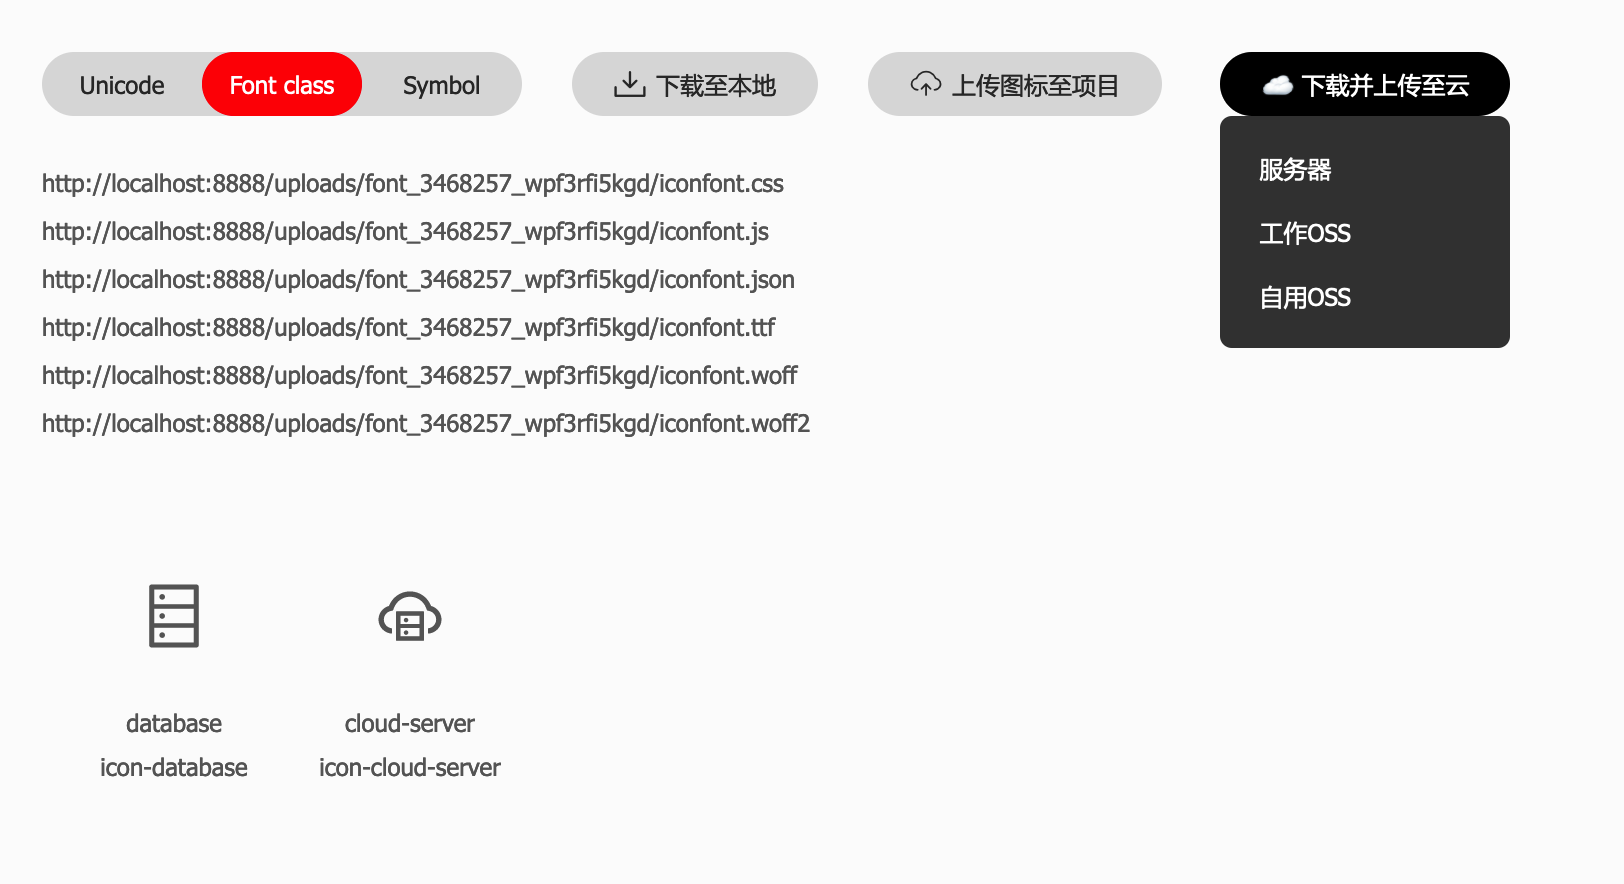
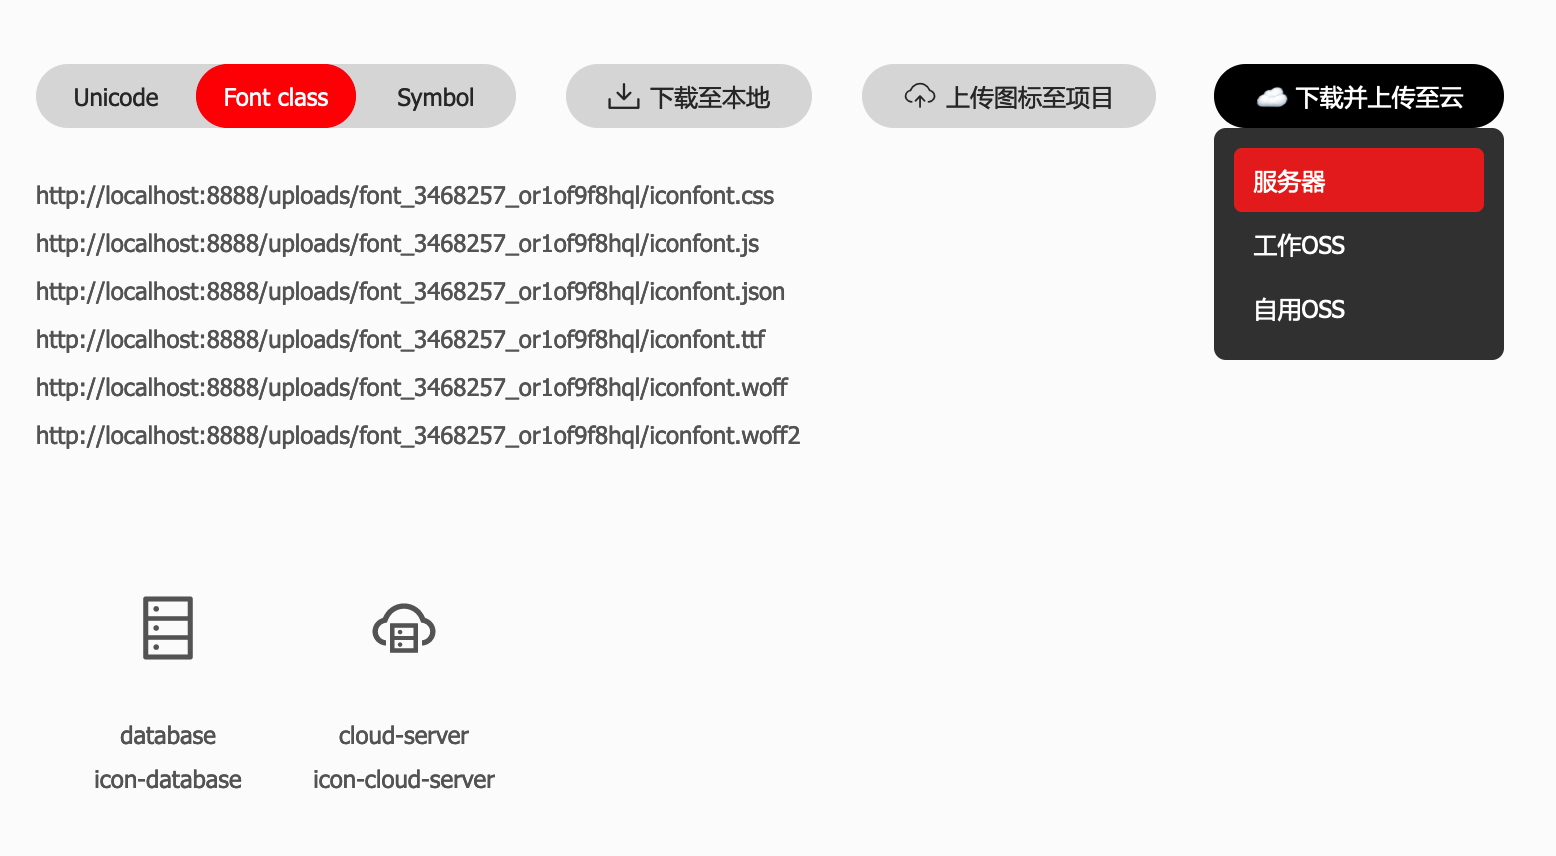
修改readme和错误提示

diff --git a/greasemonkey.js b/greasemonkey.js
@@ -27,116 +27,124 @@
   }, 100);
 
   $(document).on('gogogo', function () {
-    $.get(`${server}/`, function (data) {
-      const uploadBtns = $(`
-  <style>
-  .upload-btns {
-      display: inline-flex;
-      align-items: center;
-      vertical-align: top;
-      color: #fff;
-      background: #000;
-      border-radius: 40px;
-      padding: 0 20px;
-      position: relative;
-      height: 32px;
-      line-height: 32px;
-      margin-left: 25px;
-      cursor: pointer;
-  }
-  .upload-btns i {
-      margin-right: 5px;
-      font-size: 16px;
-  }
-  .upload-btns__dropdown {
-      display: none;
-      position: absolute;
-      left: 0;
-      top: 32px;
-      width: 100%;
-      background: rgba(0,0,0,0.75);
-      border-radius: 6px;
-      padding: 10px;
-      box-sizing: border-box;
-      cursor: default;
-  }
-  .upload-btns:hover .upload-btns__dropdown {
-      display: block;
-  }
-  .upload-btns__dropdown__item {
-      cursor: pointer;
-      padding: 0 10px;
-      border-radius: 4px;
-  }
-  
-  .upload-btns__dropdown__item:hover {
-      background: #EB3223;
-  }
-
-  .upload-btns__dropdown__item:active {
-    background: red;
-}
-  
-  </style>
-  <div class="upload-btns">
-    <i>☁</i>下载并上传至云
-    <div class="upload-btns__dropdown">
-       ${data.map((item) => `<div class="upload-btns__dropdown__item">${item}</div>`).join('\n')}
-    </div>
-  </div>
-  `);
-      $('.project-manage-bar').append(uploadBtns);
-      $('.upload-btns__dropdown__item').on('click', function () {
-        const target = $(this).text();
-        let downloadUrl = '';
-        $('.project-manage-bar .btn').each(function () {
-          const href = $(this).attr('href');
-          if (/download\.zip/.test(href)) {
-            downloadUrl = location.protocol + '//' + location.host + href;
-          }
-        });
-
-        const downloadFile = $.ajax({
-          url: downloadUrl,
-          type: 'GET',
-          xhrFields: {
-            responseType: 'blob',
-          },
-        });
-        $.when(downloadFile).then(
-          function (content) {
-            const blob = new Blob([content]);
-            const formData = new FormData();
-            formData.append('target', target);
-            formData.append('file', blob);
-            $.ajax({
-              type: 'POST',
-              url: `${server}/upload`,
-              processData: false,
-              contentType: false,
-              cache: false,
-              data: formData,
-              success: function ({ data }) {
-                console.log(data); // 接收上传后的返回的iconfont url，可以复制或者别的使用方式
-                if (!$('.url-list').get(0)) {
-                  $('.project-iconlist').before(
-                    '<div class="url-list" style="line-height: 2em; margin-top: 20px;"></div>'
-                  );
+    $.ajax({
+      url: server + '/',
+      type: 'GET',
+      cache: false,
+      success: function (data) {
+        const uploadBtns = $(`
+        <style>
+        .upload-btns {
+            display: inline-flex;
+            align-items: center;
+            vertical-align: top;
+            color: #fff;
+            background: #000;
+            border-radius: 40px;
+            padding: 0 20px;
+            position: relative;
+            height: 32px;
+            line-height: 32px;
+            margin-left: 25px;
+            cursor: pointer;
+        }
+        .upload-btns i {
+            margin-right: 5px;
+            font-size: 16px;
+        }
+        .upload-btns__dropdown {
+            display: none;
+            position: absolute;
+            left: 0;
+            top: 32px;
+            width: 100%;
+            background: rgba(0,0,0,0.75);
+            border-radius: 6px;
+            padding: 10px;
+            box-sizing: border-box;
+            cursor: default;
+        }
+        .upload-btns:hover .upload-btns__dropdown {
+            display: block;
+        }
+        .upload-btns__dropdown__item {
+            cursor: pointer;
+            padding: 0 10px;
+            border-radius: 4px;
+        }
+        
+        .upload-btns__dropdown__item:hover {
+            background: #EB3223;
+        }
+      
+        .upload-btns__dropdown__item:active {
+          background: red;
+      }
+        
+        </style>
+        <div class="upload-btns">
+          <i>☁</i>下载并上传至云
+          <div class="upload-btns__dropdown">
+             ${data.map((item) => `<div class="upload-btns__dropdown__item">${item}</div>`).join('\n')}
+          </div>
+        </div>
+        `);
+            $('.project-manage-bar').append(uploadBtns);
+            $('.upload-btns__dropdown__item').on('click', function () {
+              const target = $(this).text();
+              let downloadUrl = '';
+              $('.project-manage-bar .btn').each(function () {
+                const href = $(this).attr('href');
+                if (/download\.zip/.test(href)) {
+                  downloadUrl = location.protocol + '//' + location.host + href;
                 }
-                $('.url-list').html(
-                  `${data.map((item) => `<a href="${item}">${item}</a>`).join('<br>')}`
-                );
-              },
-              error: function (err) {
-                console.log('上传失败', err);
-              },
+              });
+      
+              const downloadFile = $.ajax({
+                url: downloadUrl,
+                type: 'GET',
+                xhrFields: {
+                  responseType: 'blob',
+                },
+              });
+              $.when(downloadFile).then(
+                function (content) {
+                  const blob = new Blob([content]);
+                  const formData = new FormData();
+                  formData.append('target', target);
+                  formData.append('file', blob);
+                  $.ajax({
+                    type: 'POST',
+                    url: `${server}/upload`,
+                    processData: false,
+                    contentType: false,
+                    cache: false,
+                    data: formData,
+                    success: function ({ data }) {
+                      console.log(data); // 接收上传后的返回的iconfont url，可以复制或者别的使用方式
+                      if (!$('.url-list').get(0)) {
+                        $('.project-iconlist').before(
+                          '<div class="url-list" style="line-height: 2em; margin-top: 20px;"></div>'
+                        );
+                      }
+                      $('.url-list').html(
+                        `${data.map((item) => `<a href="${item}">${item}</a>`).join('<br>')}`
+                      );
+                    },
+                    error: function (err) {
+                      console.log('上传失败', err);
+                    },
+                  });
+                },
+                function () {
+                  console.log('下载失败');
+                }
+              );
             });
-          },
-          function () {
-            console.log('下载失败');
-          }
-        );
-      });
-    });
+      },
+      error: function (err) {
+        alert('获取上传目标列表失败');
+      }
+    })
   });
 })();

diff --git a/README.md b/README.md
@@ -41,6 +41,10 @@ yarn pm2:stop
 yarn pm2:reload
 ```
 
+### 5.前端使用
+打开[https://www.iconfont.cn](https://www.iconfont.cn)，进入`资源管理`-`我的项目`，如果配置无误，可以看到出现一个`下载并上传至云`下拉按钮，选择想要上传的目标位置，将执行下载上传并将外链地址展示在页面上。
+
+
 ## 特性
 - [x] 支持上传并生成外链
 - [x] 支持上传到阿里云oss并生成外链
